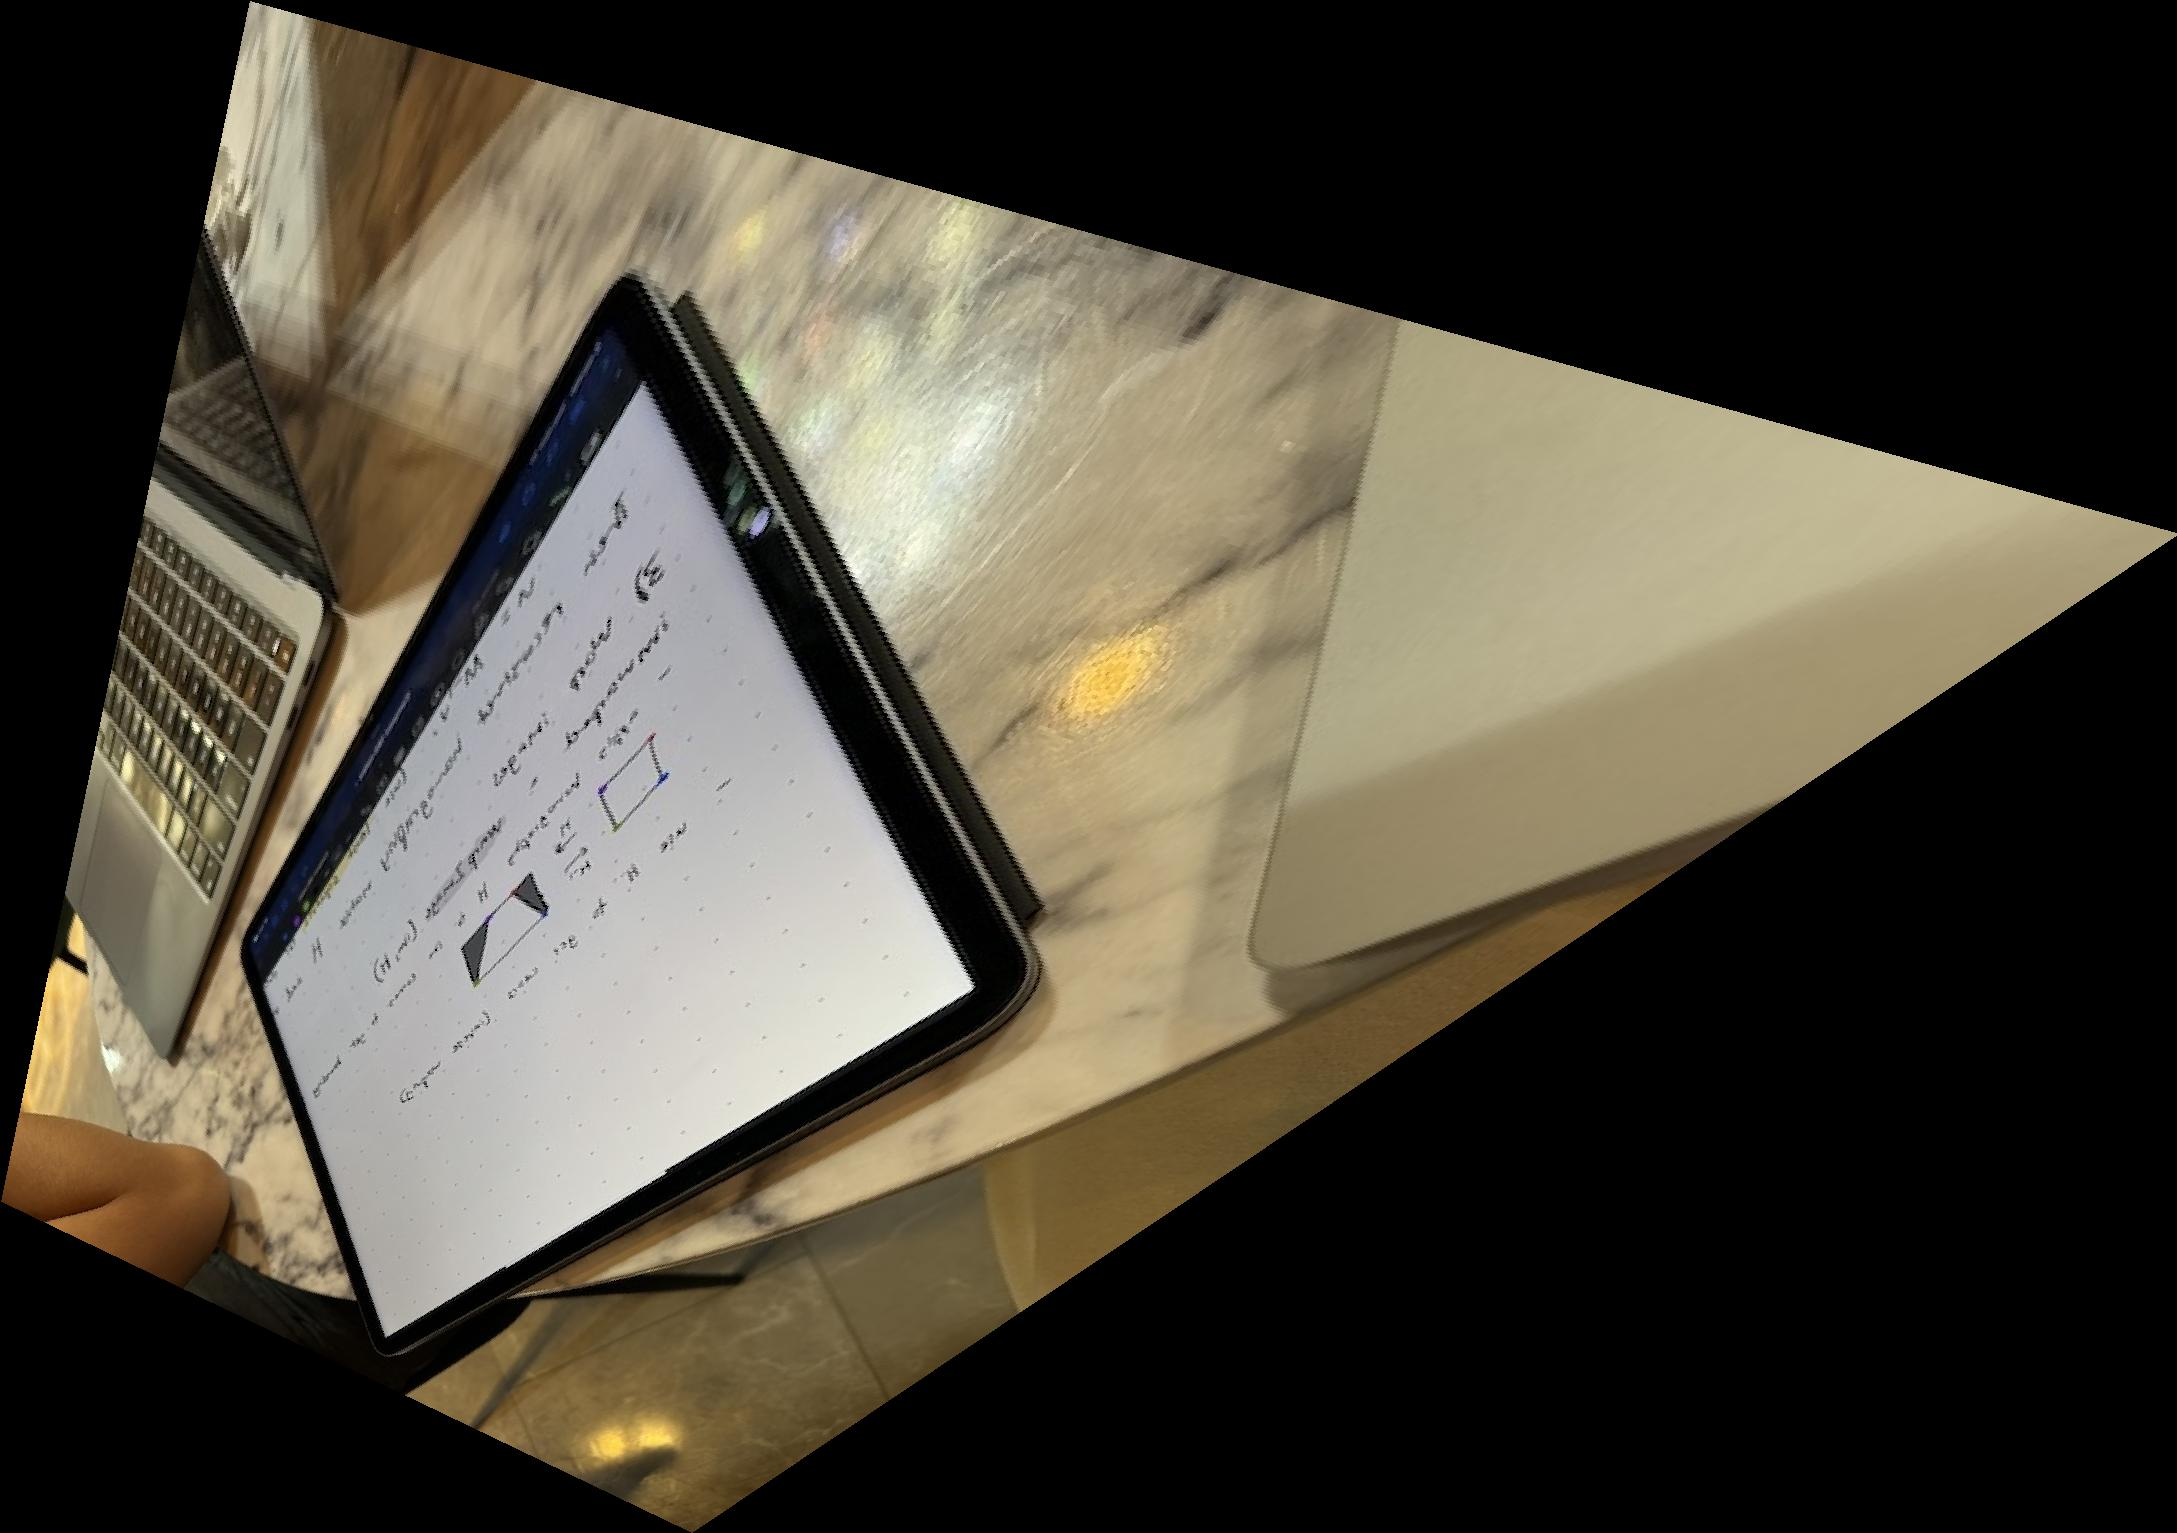
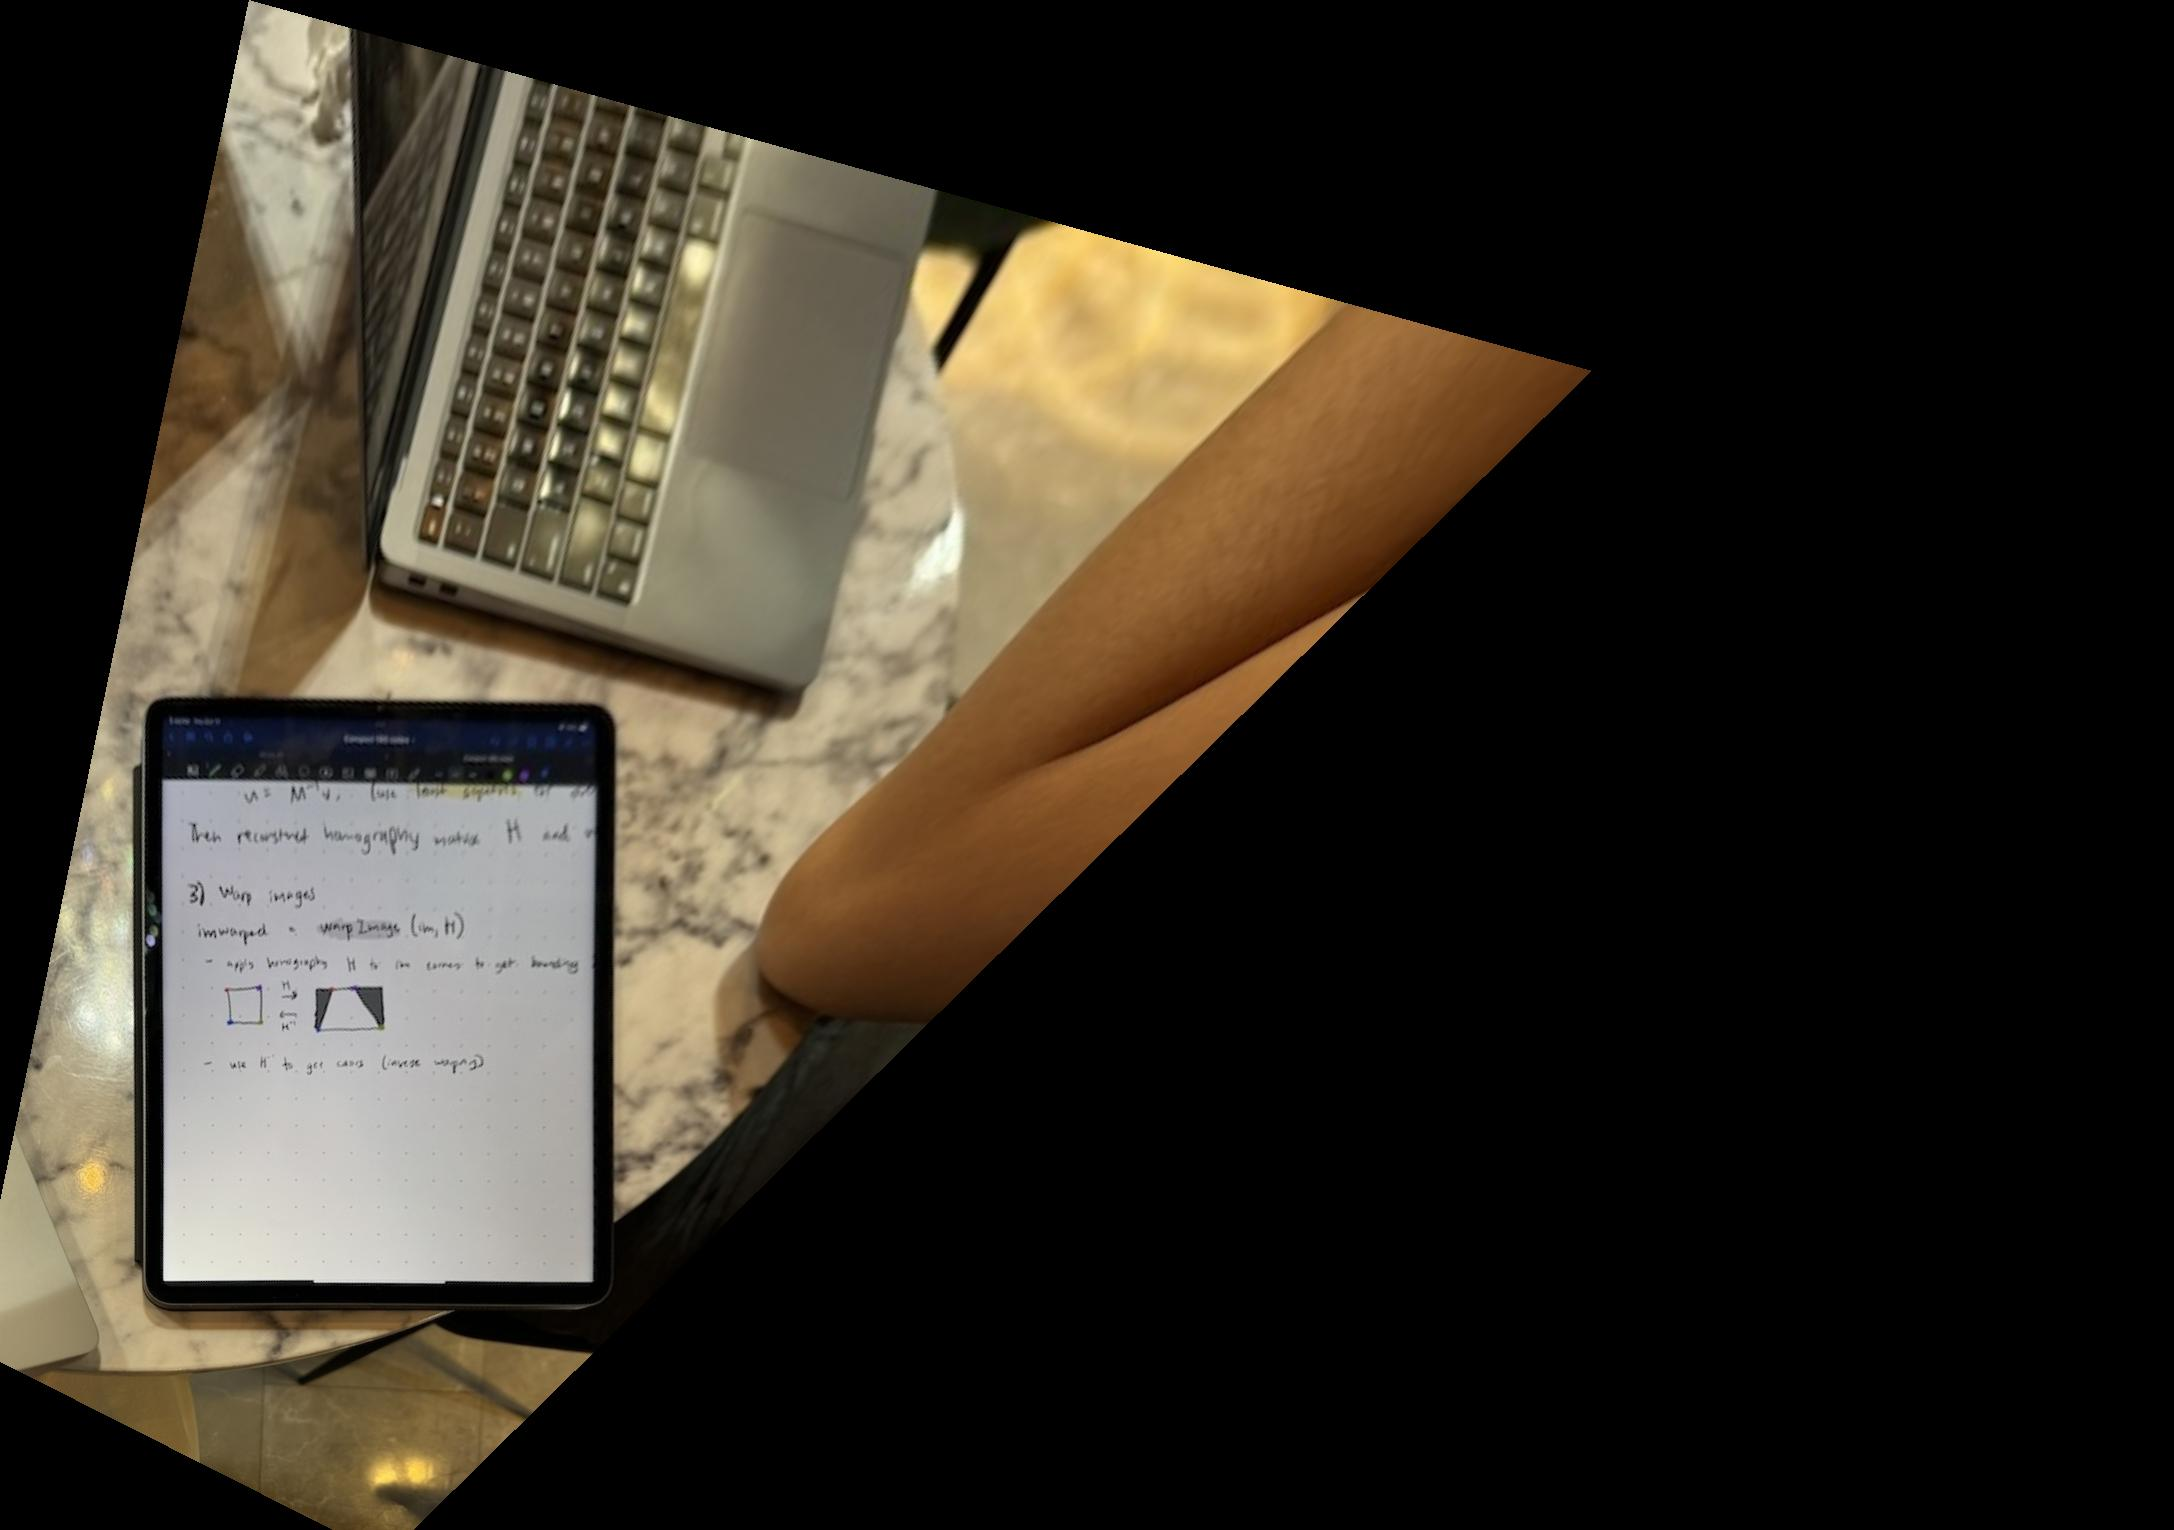
done with image rectification :D

diff --git a/code/utils.py b/code/utils.py
@@ -1,10 +1,7 @@
 import numpy as np
 from scipy.interpolate import RegularGridInterpolator
-from ref import warp_image_kiran
 
-import cv2
-
-# ===== Helper functions ======
+# ===== Helpers ======
 
 # Appends a one to each coordinate
 def homogeneous_coords(coords):
@@ -43,9 +40,9 @@ def compute_homography(im1_pts, im2_pts):
     for i in range(n):
         y1, x1 = im1_pts[i]
         y2, x2 = im2_pts[i]
-        A.append([y1, x1, 1, 0, 0, 0, -y1 * y2, -x1 * y2])
-        A.append([0, 0, 0, y1, x1, 1, -y1 * x2, -x1 * x2])
-        y.extend([y2, x2])
+        A.append([x1, y1, 1, 0, 0, 0, -x1 * x2, -y1 * x2])
+        A.append([0, 0, 0, x1, y1, 1, -x1 * y2, -y1 * y2])
+        y.extend([x2, y2])
 
     A = np.array(A)
     b = np.array(y)
@@ -60,43 +57,32 @@ def compute_homography(im1_pts, im2_pts):
 # Returns the warped image after applying the given homography transformation
 def warp_image(im, H):
     h, w = im.shape[:2]
+    corners = np.array([[0, 0, 1], [w-1, 0, 1], [w-1, h-1, 1], [0, h-1, 1]])
+    corners = (H @ np.reshape(corners, (4, 3, 1))) # 4 column vectors
+    corners = np.array([corner / corner[2] for corner in corners]) # account for scaling factor w
 
-    # Warp each corner of the image
-    src_corners = [(0, 0, 1),  (h-1, 0, 1), (h-1, w-1, 1), (0, w-1, 1)]
-    target_corners = [H @ np.array(corner) for corner in src_corners]
+    corners = np.squeeze(corners)
+    x_values = corners[:, 0]
+    y_values = corners[:, 1]
+    min_x = int(np.min(x_values))
+    max_x = int(np.max(x_values))
+    min_y = int(np.min(y_values))
+    max_y = int(np.max(y_values))
 
-    # Scale target corners into (y, x) coordinates
-    scaled_target_corners = np.array([(corner / corner[2])[:2] for corner in target_corners])
+    x_range = np.arange(min_x, max_x)
+    y_range = np.arange(min_y, max_y)
 
-    # Compute the bounding box (potentially in negative space)
-    y_max = int(np.ceil(max([y for y, _ in scaled_target_corners])))
-    y_min = int(np.floor(min([y for y, _ in scaled_target_corners])))
-    x_max = int(np.ceil(max([x for _, x in scaled_target_corners])))
-    x_min = int(np.floor(min([x for _, x in scaled_target_corners])))
+    x, y = np.meshgrid(x_range, y_range)
+    im_coords = np.vstack([x.ravel(), y.ravel(), np.ones(x.size)])
 
-    # Get all points in target image (may include negative coordinates)
-    target_coords = np.array([(y, x) for y in np.arange(y_min, y_max + 1) for x in np.arange(x_min, x_max + 1)])
+    xs, ys, ws = np.linalg.inv(H) @ im_coords
+    xs = xs / ws
+    ys = ys / ws
 
-    # Find the preimage for each of these coordinates
-    H_inv = np.linalg.inv(H)    
-    target_coords_mat = homogeneous_coords(target_coords).T
-    ys, xs, ws = H_inv @ target_coords_mat
-    ys /= ws
-    xs /= ws
+    colors = bilinear_interpolation(im, np.column_stack((xs, ys)))
+    colors = np.reshape(colors, (max_y - min_y, max_x - min_x, 3))
 
-    # Find out which preimages are actually in the original image
-    bounded_indices = np.where((0 <= xs) & (xs < w) & (0 <= ys) & (ys < h))
-    valid_ys = ys[bounded_indices].astype(int)
-    valid_xs = xs[bounded_indices].astype(int)
-
-    # Construct warped image using nearest neighbor interpolation
-    y_shift = -y_min
-    x_shift = -x_min
-    warped_im = np.zeros((y_max + y_shift + 1, x_max + x_shift + 1, 3)).astype(np.uint8)
-    valid_target_coords = target_coords[bounded_indices]
-    shifted_valid_target_coords = valid_target_coords + np.array((y_shift, x_shift))
-    warped_im[shifted_valid_target_coords[:, 0], shifted_valid_target_coords[:, 1]] = im[valid_ys, valid_xs]
-    return warped_im
+    return colors.astype(np.uint8)
 
 
 # Return a warped version of the image with a "straightened out" rectangle

diff --git a/code/main.py b/code/main.py
@@ -3,16 +3,10 @@ from utils import rectify_image
 
 # Image rectification
 ART_KEYPOINTS = [[87, 98], [138, 128], [259, 127], [197, 97]]
-ART_RECTANGLE = [[0, 0], [50, 0], [50, 50], [0, 50]]
+ART_RECTANGLE = [[0, 0], [200, 0], [200, 200], [0, 200]]
 im = skio.imread(f'../data/art.jpg')
 rectified_im = rectify_image(im, ART_KEYPOINTS, ART_RECTANGLE)
 skio.imsave(f'../images/rectified_art.jpg', rectified_im)
-
-CARDS_KEYPOINTS = [[218, 489], [382, 351], [589, 583], [417, 733]]
-CARDS_RECTANGLE = [[0, 0], [250, 0], [250, 350], [0, 350]]
-im = skio.imread(f'../data/cards.jpg')
-rectified_im = rectify_image(im, CARDS_KEYPOINTS, CARDS_RECTANGLE)
-skio.imsave(f'../images/rectified_cards.jpg', rectified_im)
 
 IPAD_KEYPOINTS = [(40, 188), (172, 503), (462, 363), (264, 135)]
 IPAD_RECTANGLE = [(0, 0), (281 * 2, 0), (281 * 2, 215 * 2), (0, 215 * 2)]
